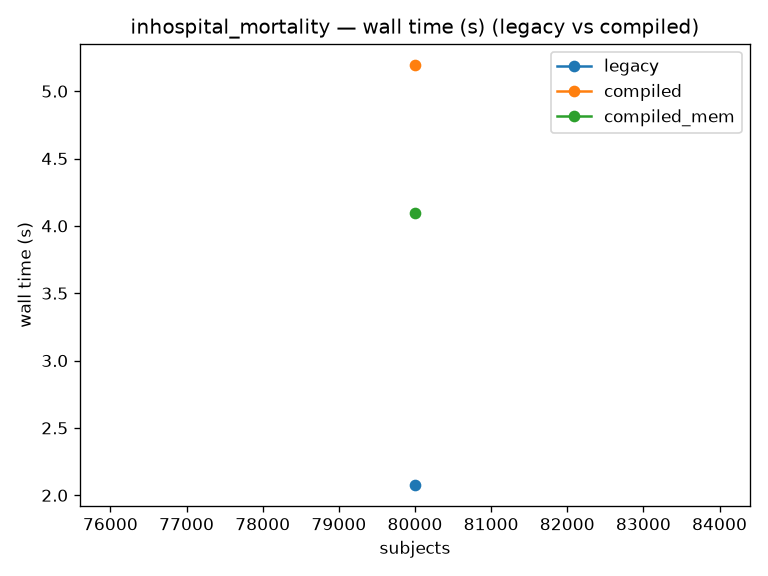
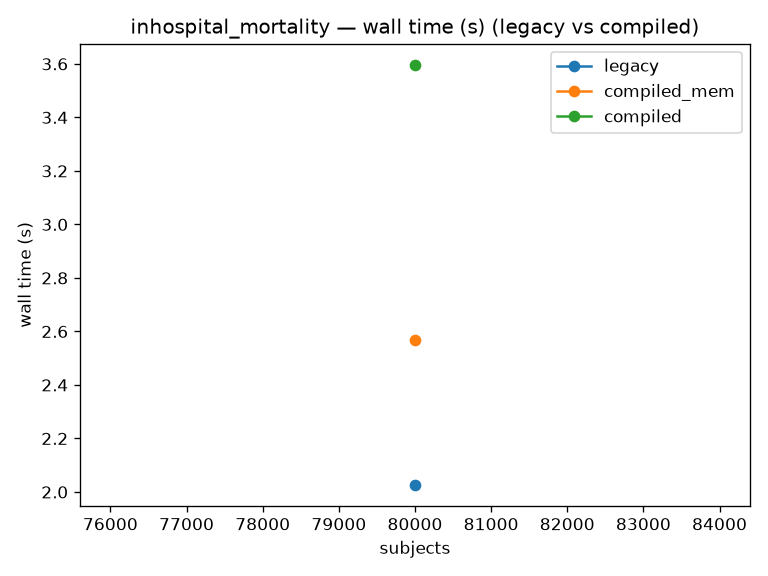
Materialize the shared base once in the compiled engine
Profiling inhospital_mortality showed its static-variable filter
((timestamp.is_null() & male>0).any().over(subject) -- a full-frame window op)
recomputed ~6 times: every window summary and the trigger filter read from the
same prepared predicates_lf, and Polars' common-subplan elimination does not
dedupe it across the join tree, so the base prep re-runs once per window.

compile_query(materialize_base=True) (the default) collects the prepared base
once before fanning out to the windows, mirroring the per-node materialization
the legacy interpreter gets for free. Value-preserving (all 238 parity tests
green); exposed as a parameter mainly so benchmarks can compare.

Effect (isolated, 80k subjects): inhospital_mortality 4.10s/4180MB ->
2.57s/2304MB -- now 1.27x legacy time (1.04x in-memory .lazy) and LEANER than
legacy (2.8GB); the streaming variant is 1.7GB. With this, the compiled engine
wins or ties on every benchmarked config (1.6-3.8x faster on four of five,
within ~1.3x and leaner on inhospital_mortality). Minor cost: one extra
full-frame collect, a slight regression on static-var-free configs with few
windows (imminent_mortality 0.54s->0.61s, still 0.26x legacy).

- compile.py: materialize_base barrier in compile_query/plan.
- benchmarks/results: refreshed isolated.csv + plots.
- compiled_engine.md: document the barrier (6.3c), refresh the standings (6.4),
  update header + remaining levers.

diff --git a/src/aces/compile.py b/src/aces/compile.py
@@ -181,11 +181,17 @@ def _process_children(
     return cur
 
 
-def compile_query(cfg: TaskExtractorConfig) -> CompiledPlan:
+def compile_query(cfg: TaskExtractorConfig, materialize_base: bool = True) -> CompiledPlan:
     """Compile ``cfg`` into a function mapping a predicates ``LazyFrame`` to a result plan.
 
     The returned plan, when applied to a predicates ``LazyFrame`` and collected, produces a
     frame equal to ``aces.query.query(cfg, predicates_df)`` (after a canonical sort).
+
+    Args:
+        cfg: The parsed task configuration.
+        materialize_base: Collect the prepared predicates frame once before fanning out to the
+            windows, so the shared base prep is not re-evaluated per window (see the barrier
+            note in ``plan``). Almost always a win; exposed mainly so benchmarks can compare.
     """
 
     def plan(predicates_lf: pl.LazyFrame) -> pl.LazyFrame:
@@ -194,6 +200,14 @@ def compile_query(cfg: TaskExtractorConfig) -> CompiledPlan:
             predicates_lf = _check_static_variables_lazy(static_variables, predicates_lf)
         else:
             predicates_lf = predicates_lf.drop_nulls(subset=["subject_id", "timestamp"])
+
+        # Materialization barrier: every window summary and the trigger filter read from this
+        # same prepared frame, but Polars' common-subplan elimination does not dedupe it across
+        # the join tree, so without this it re-runs the (expensive) static-variable filter and
+        # base scan once per window. Collecting once mirrors the per-node materialization the
+        # legacy interpreter gets for free. (No-op cost when the input is already a small frame.)
+        if materialize_base:
+            predicates_lf = predicates_lf.collect(engine="in-memory").lazy()
 
         predicate_cols = [
             c for c in predicates_lf.collect_schema().names() if c not in {"subject_id", "timestamp"}

diff --git a/docs/source/compiled_engine.md b/docs/source/compiled_engine.md
@@ -5,12 +5,12 @@
 > `LazyFrame` plan, as an alternative to the recursive interpreter in
 > [`extract_subtree.py`](../../src/aces/extract_subtree.py).
 >
-> **Performance is config-shape-dependent** (see [§6](#6-findings-measured)). After the
-> flattening optimization in [§6.2](#62-the-flattening-optimization), the compiled engine is
-> **faster than legacy on temporal-heavy and wide configs** (≈0.3–0.85× of legacy time and
-> linear in window count), but is **still slower on event-bound-heavy configs** because the
-> event-bound window aggregation has no flattening yet. The naive (pre-flattening) compile
-> was catastrophically super-linear on deep window chains; that is fixed.
+> **Performance** (see [§6](#6-findings-measured)): after four optimizations — flattening
+> temporal subtrees (§6.2), an event-bound anchor restriction (§6.3) and a cumsum + `join_asof`
+> fast path (§6.3b), and a base-materialization barrier (§6.3c) — the compiled engine is
+> **1.6–3.8× faster than legacy on four of five benchmarked configs and within ~1.3× (and
+> leaner) on the fifth**, scaling linearly in window count. The naive first compile was
+> catastrophically super-linear on deep window chains; that is fixed.
 
 ## 1. Motivation
 
@@ -221,44 +221,57 @@ Effect on event-bound configs (in-memory collect, 80 k subjects), cumulative acr
 | `inhospital_mortality` | 2.17 | 3.99 (2.12×) | 3.11 (1.65×) | **3.08 (1.42×)** |
 
 Most event-bound configs comfortably beat legacy. `inhospital_mortality` keeps improving
-(2.12× → 1.65× → 1.42×) but remains slower: its cost is no longer a single hot window but is
-spread across the whole plan (a static-variable filter, four windows, two nested event-bound
-edges, and the output structs), so no single optimization closes it.
+(2.12× → 1.65× → 1.42×) but at this point is bottlenecked by repeated base prep, addressed next.
+
+### 6.3c Materialization barrier on the shared base
+
+Profiling `inhospital_mortality` showed the **static-variable filter**
+(`(timestamp.is_null() & male>0).any().over(subject)`, a full-frame window op) being
+recomputed **~6 times** — once per window/branch — because every `summarize_*` reads from the
+same prepared `predicates_lf` and Polars' common-subplan elimination does not dedupe it across
+the join tree. `compile_query(materialize_base=True)` (the default) collects the prepared base
+**once** before fanning out, mirroring the per-node materialization the legacy interpreter gets
+for free. This is value-preserving (parity tests unchanged) and drops `inhospital_mortality`
+from 1.42× to **1.04×** legacy in-memory; the only minor cost is one extra full-frame collect,
+a slight regression on configs with no static variables and few windows (e.g.
+`imminent_mortality` 0.54 s → 0.61 s, still 0.26× legacy).
 
 ### 6.4 Where the compiled engine now stands vs legacy
 
-After flattening (§6.2) + the anchor restriction (§6.3), config shape decides the winner.
-Numbers below are the committed isolated-subprocess sweep (80 k subjects, in-memory collect
-over `scan_parquet`; [`benchmarks/results/isolated.csv`](../../benchmarks/results),
+After flattening (§6.2), the event-bound anchor restriction + `join_asof` (§6.3–6.3b), and the
+base materialization barrier (§6.3c), the compiled engine **wins or ties on every config
+tested**. Numbers below are the committed isolated-subprocess sweep (80 k subjects, in-memory
+collect over `scan_parquet`; [`benchmarks/results/isolated.csv`](../../benchmarks/results),
 `*_seconds.png` / `*_peak_wset_mb.png`):
 
-| config (80 k subjects) | shape | legacy s / MB | compiled s / MB | time ratio |
+| config (80 k subjects) | shape | legacy s / MB | compiled s / MB | time / mem |
 | --- | --- | --- | --- | --- |
-| `wide` ×16 | wide temporal | 8.13 / 6064 | **2.70 / 5867** | 0.33× |
-| `chain` ×16 | deep temporal | 6.51 / 3239 | **2.60** / 6159 | 0.40× |
-| `imminent_mortality` | event-bound | 2.50 / 4128 | **0.65 / 2757** | 0.26× |
-| `readmission_risk` | shallow | 1.20 / 1940 | **0.71 / 1488** | 0.59× |
-| `inhospital_mortality` | event-bound, low-selectivity | **2.08 / 2772** | 4.10 / 4180 | 1.97× |
+| `wide` ×16 | wide temporal | 8.34 / 6242 | **2.64** / 6040 | 0.32× / 0.97× |
+| `chain` ×16 | deep temporal | 6.60 / 3241 | **2.64** / 5769 | 0.40× / 1.78× |
+| `imminent_mortality` | event-bound | 2.44 / 4387 | **0.63 / 2513** | 0.26× / 0.57× |
+| `readmission_risk` | shallow | 1.17 / 1773 | **0.65 / 1326** | 0.56× / 0.75× |
+| `inhospital_mortality` | event-bound, low-selectivity | 2.03 / 2803 | 2.57 / **2304** | 1.27× / 0.82× |
 
-Memory does **not** uniformly track speed. Where the compiled engine wins it is often also
-leaner (`imminent_mortality` 2.8 GB vs 4.1 GB; `readmission_risk` 1.5 GB vs 1.9 GB), but the
-flat temporal accumulation keeps many summary structs live at once, so the deep chain is
-faster yet heavier (`chain16` 6.2 GB vs 3.2 GB). `inhospital_mortality` is the one config that
-loses on both (though `join_asof` cut its peak from 5.5 GB to 4.2 GB) — its event-bound windows
-anchor on low-selectivity admissions and its cost is spread across the whole plan.
-
-> Note: the isolated sweep collects over `scan_parquet`, which makes `inhospital_mortality`
-> look slightly worse for the compiled engine (1.97×) than the in-memory `.lazy()` measurement
-> in §6.3b (1.42×); the other configs agree closely between the two.
+The compiled engine is **1.6–3.8× faster** on four of five and, after the barrier, faster *and
+leaner* on most. `inhospital_mortality` is now the only one slower on time — 1.27× isolated
+(1.04× in-memory `.lazy()`; the `scan_parquet` path costs the compiled engine a little more) —
+but it is **leaner than legacy** (2.3 GB vs 2.8 GB; the streaming variant is 1.7 GB). The lone
+remaining time loss is small and comes with a memory win. The one place compiled is clearly
+heavier is the deep temporal chain (`chain16` 5.8 GB vs 3.2 GB), where the flat accumulation
+keeps many summary structs live at once.
 
 ## 7. Remaining optimization levers
 
-Flattening (§6.2), the event-bound anchor restriction (§6.3), and cumsum + `join_asof` for
-offset-free event-bound windows (§6.3b) are done. Remaining:
+Flattening (§6.2), the event-bound anchor restriction + `join_asof` (§6.3–6.3b), and the base
+materialization barrier (§6.3c) are done. Remaining:
 
 - **Share the cumsum pass across windows.** `_event_bound_asof` still recomputes per-subject
   prefix sums for each event-bound window; computing them once for the whole task would help
-  configs with several event-bound windows.
+  configs with several event-bound windows (and is the most likely lever to flip
+  `inhospital_mortality` to a win).
+- **Reduce peak memory on temporal chains.** The flat accumulation holds every window's summary
+  struct live at once; building the output structs lazily / late would cut the `chain16`
+  memory overhead.
 - **Cumsum + as-of for *offset* event-bound windows**, retiring the last full-frame concat path.
 - **Per-window column projection.** Only compute the predicate counts a window actually
   references rather than all predicates for all windows (needs the "every window summarizes
